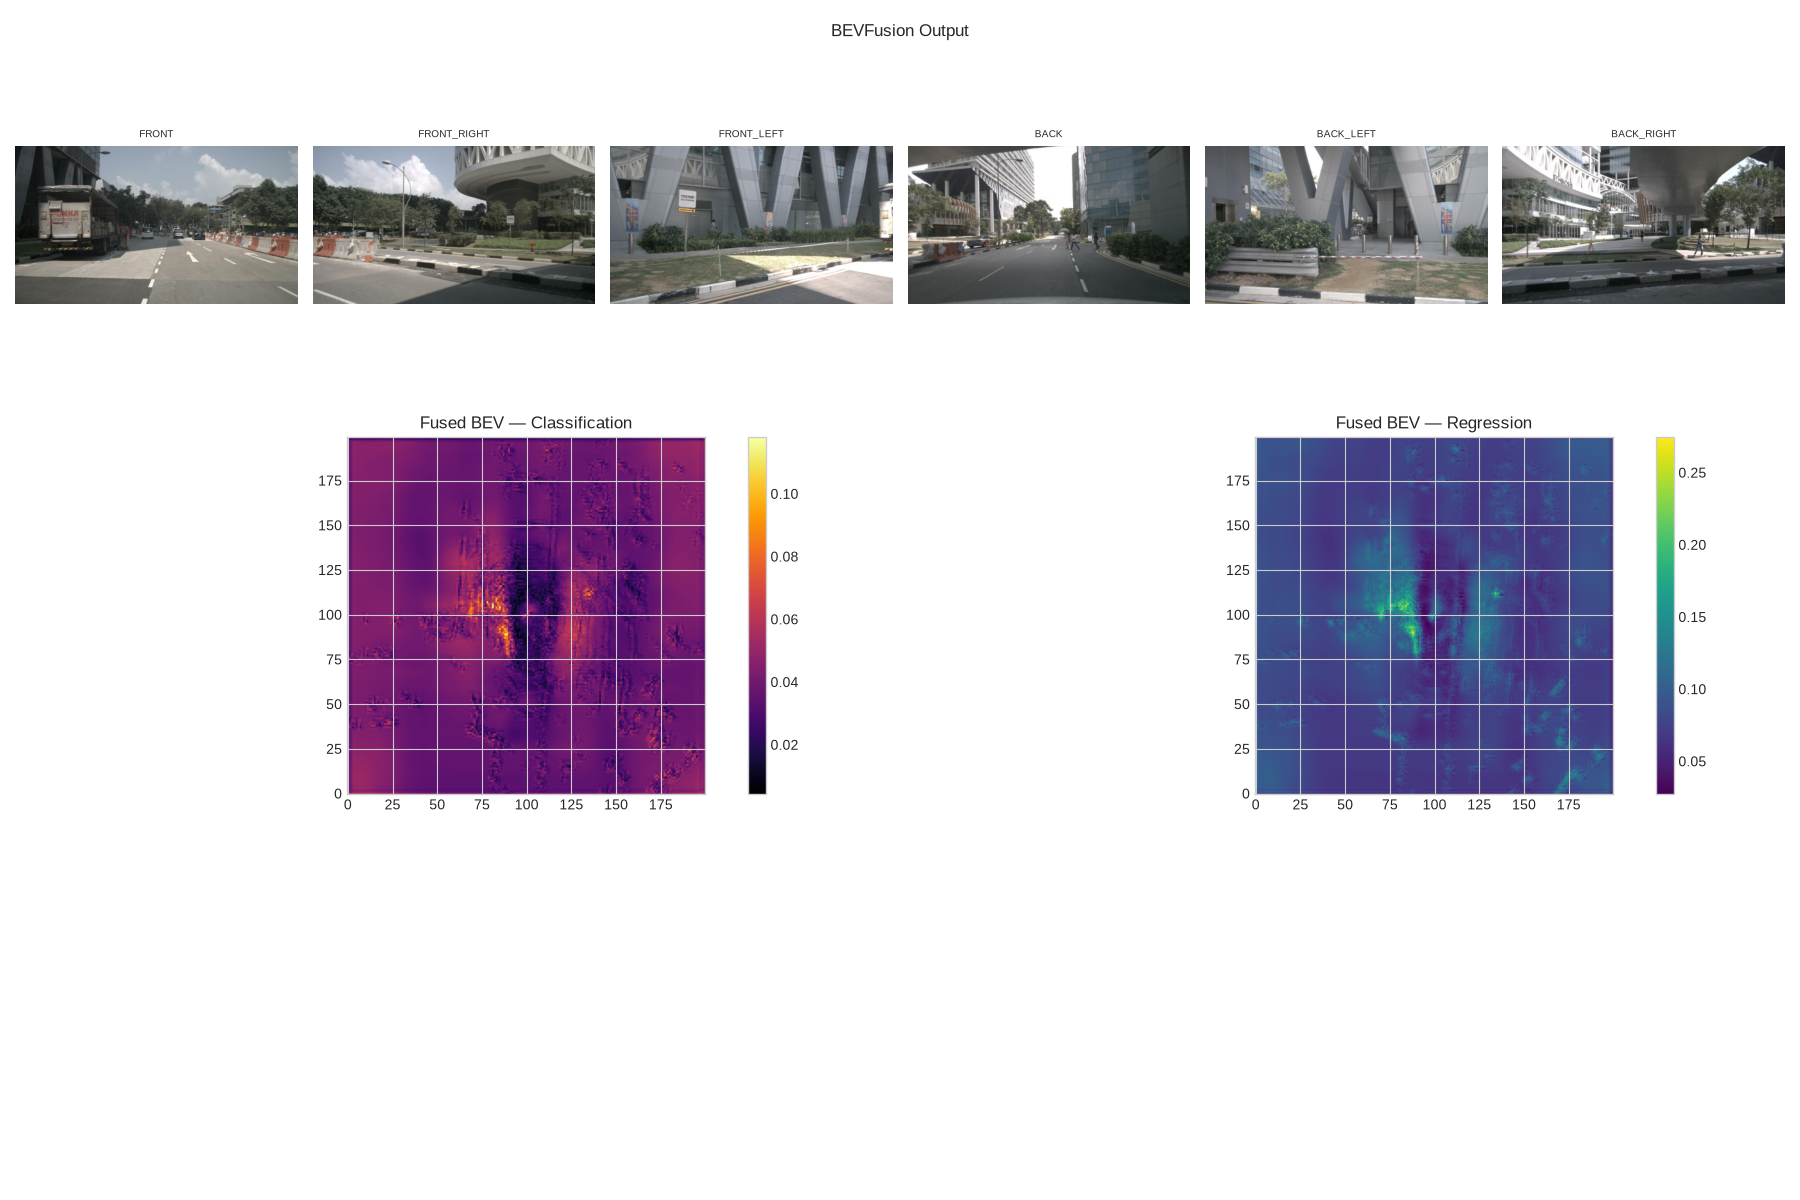
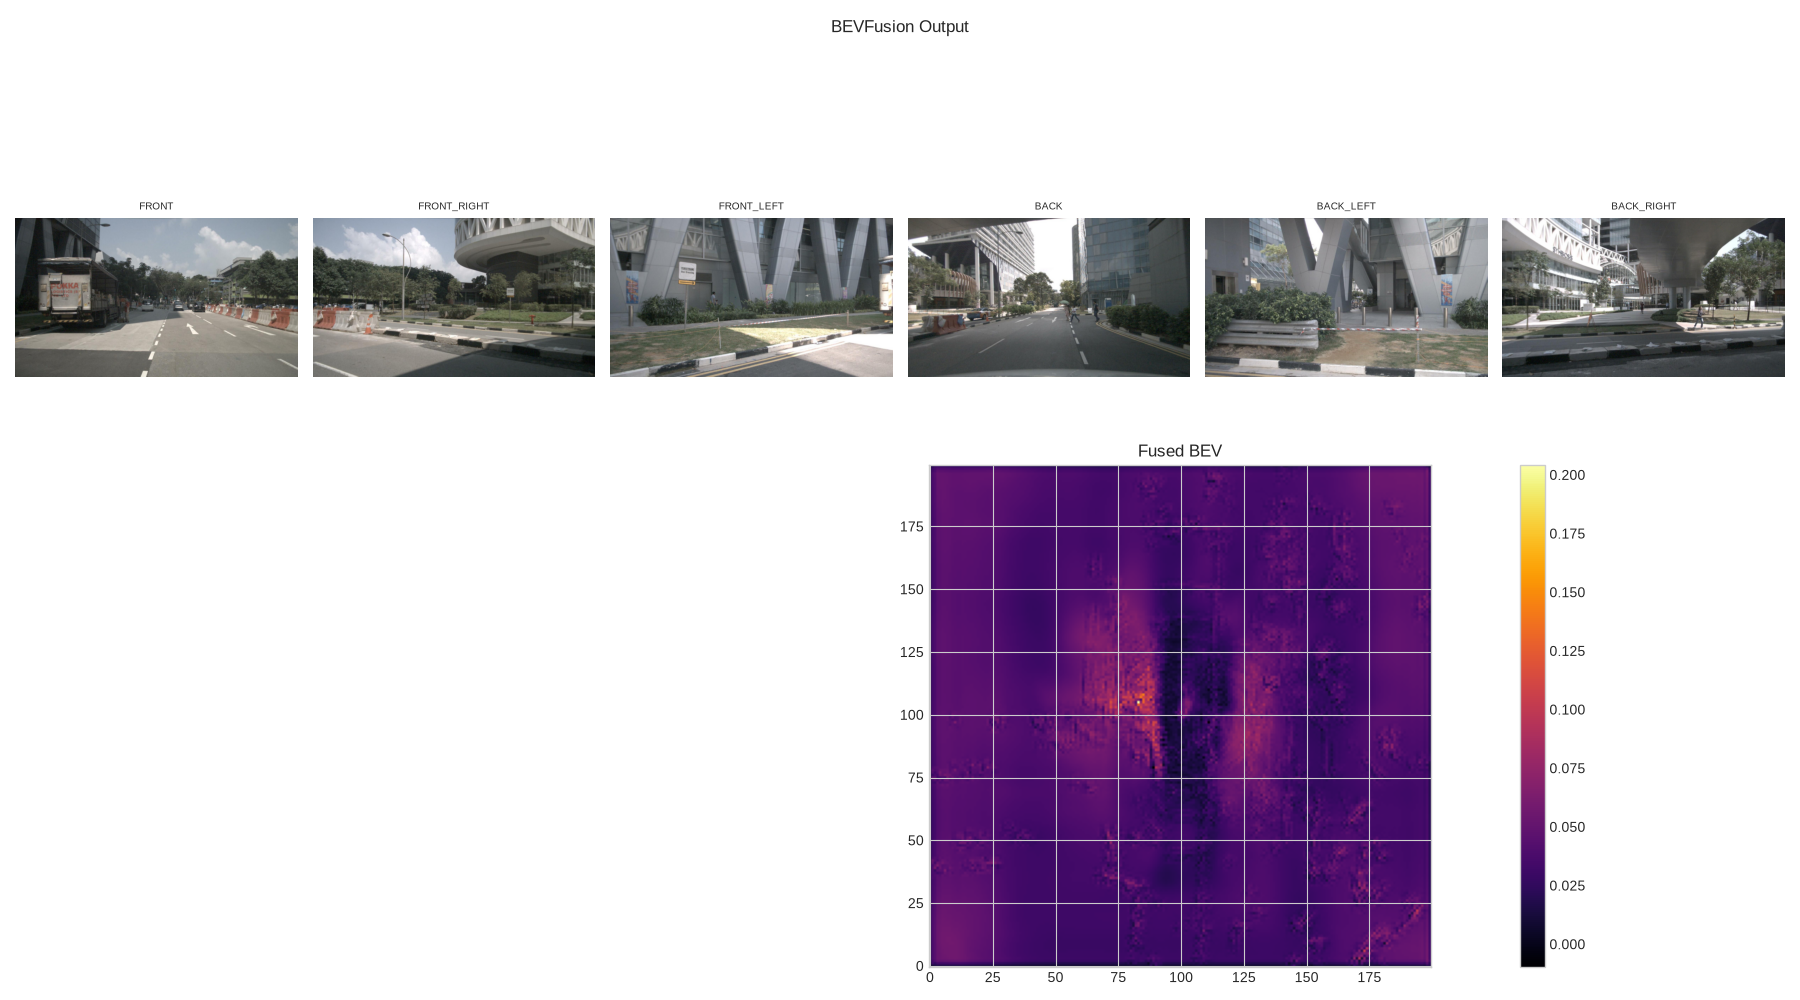
added output images to readme

diff --git a/scripts/run_bevfusion.py b/scripts/run_bevfusion.py
@@ -81,25 +81,20 @@ def main():
 
     out_path = Path(__file__).parent.parent / "images" / "bevfusion_output.png"
 
-    fig = plt.figure(figsize=(18, 12))
+    fig = plt.figure(figsize=(18, 10))
 
     for i, cam in enumerate(CAMERAS):
         cam_data = nusc.get('sample_data', sample['data'][cam])
         img = Image.open(Path(nusc.dataroot) / cam_data['filename'])
-        ax = fig.add_subplot(3, 6, i + 1)
+        ax = fig.add_subplot(2, 6, i + 1)
         ax.imshow(img)
         ax.set_title(cam.replace('CAM_', ''), fontsize=7)
         ax.axis('off')
 
-    ax_cls = fig.add_subplot(3, 2, 3)
-    ax_cls.imshow(cls[0].max(dim=0).values.numpy(), origin='lower', cmap='inferno')
-    ax_cls.set_title("Fused BEV — Classification")
-    plt.colorbar(ax_cls.images[0], ax=ax_cls)
-
-    ax_reg = fig.add_subplot(3, 2, 4)
-    ax_reg.imshow(reg[0, :7].norm(dim=0).numpy(), origin='lower', cmap='viridis')
-    ax_reg.set_title("Fused BEV — Regression")
-    plt.colorbar(ax_reg.images[0], ax=ax_reg)
+    ax_bev = fig.add_subplot(2, 1, 2)
+    ax_bev.imshow(cls[0].max(dim=0).values.numpy(), origin='lower', cmap='inferno')
+    ax_bev.set_title("Fused BEV")
+    plt.colorbar(ax_bev.images[0], ax=ax_bev)
 
     plt.suptitle("BEVFusion Output", fontsize=12)
     plt.tight_layout()

diff --git a/README.md b/README.md
@@ -152,6 +152,28 @@ Camera inputs (6 views) and the resulting BEV feature map:
 
 ![LSS BEV Output](images/lss_output.png)
 
+## Pipeline Outputs
+
+All outputs below are from an **untrained model** on a single nuScenes mini sample. Spatial structure visible in the BEV maps comes from the input data, not learned weights — the camera branch uses pretrained LSS weights, while the LiDAR branch and fusion layer are randomly initialized.
+
+### Camera BEV (LSS)
+
+6 camera views lifted into a 200×200 BEV grid using the pretrained LSS model. Brighter regions correspond to areas where the depth network placed higher-confidence features.
+
+![LSS Output](images/lss_output.png)
+
+### LiDAR BEV (PointPillars)
+
+Raw LiDAR point cloud encoded into a 200×200 BEV grid via pillarization and PointNet encoding. The left map shows classification scores, right shows the regression vector norm. Structure reflects LiDAR point density — denser around the ego vehicle and along road surfaces.
+
+![PointPillars Output](images/point_pillars_output.png)
+
+### Fused BEV (BEVFusion)
+
+Camera and LiDAR BEV features concatenated and refined by the convolutional BEV encoder, then passed through the detection head. The fused BEV combines geometric structure from LiDAR with semantic density from cameras.
+
+![BEVFusion Output](images/bevfusion_output.png)
+
 ## Limitations
 
 **BEV grid alignment** — The BEVFusion paper trains both camera and LiDAR branches jointly from scratch with a shared BEV grid, ensuring spatial alignment by design. This implementation uses pretrained LSS weights from the official LSS repository (Philion & Fidler), which were trained on a fixed 200×200 grid at 0.5m resolution covering ±50m. As a result, the LiDAR branch is configured to match this grid rather than the grid used in the original BEVFusion paper. A proper reproduction would train both branches jointly on the same grid.